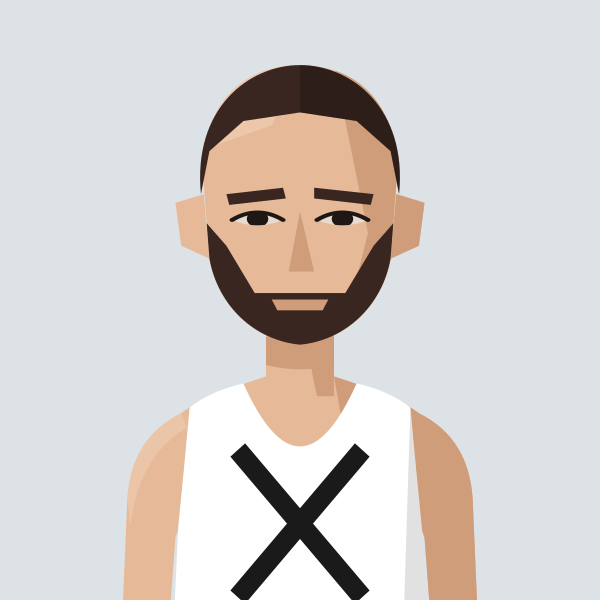
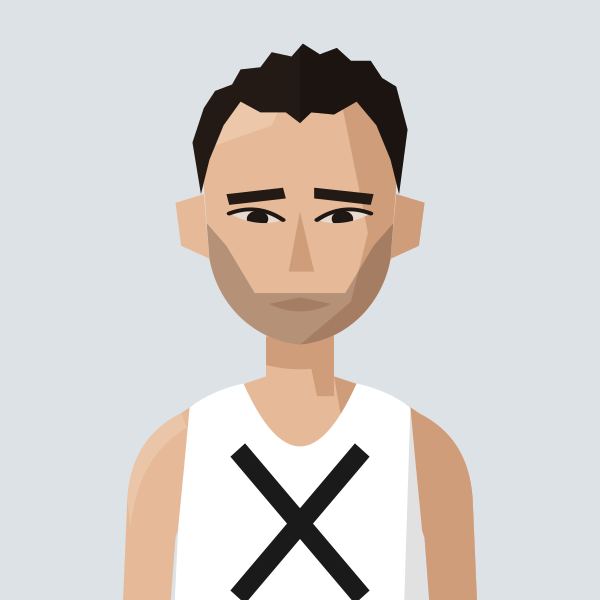
Redraw Richard Ollington: short dark curls, light stubble, round jaw, upturned eyes
Claude-Session: https://claude.ai/code/session_01MgmDWhFqnSSnP4iBLKXUZC

Changed region(s): [[0.3, 0.06, 0.69, 0.33], [0.33, 0.33, 0.66, 0.6], [0.36, 0.33, 0.45, 0.39]]

diff --git a/files/index.html b/files/index.html
@@ -686,7 +686,7 @@ return m;})();
 const portraitFile=(name,club)=>{const k=normalizeNameForCompare(name||'').replace(/\s*\(([^)]*)\)$/,(m,c)=>CLUBS[c.toUpperCase()]?'':m);const a=PORTRAITS[k];if(a&&a.club===club)return a.file;const b=PORTRAITS[k+'@'+club];return b?b.file:null;};
 // Athlete header figure: superstar portrait if we have one, else a grey runner in the club vest, else the plain vest icon
 // Changes whenever any portrait changes (set by tools/build_og.py), so browsers fetch fresh images instead of old cached ones
-const PORTRAIT_V='ead80890';const PORTRAIT_WOMEN='abbey-brooke,abbie-bulbulian,adele-prince,aimee-hargreaves,aisling-ahern,alex-brown,alex-gandee,alex-marginean,alex-miller,alexa-parker,alexandra-barbour,alice-braham,alice-bridger-morales,alice-crane,alice-martin,alice-reed,alice-smith,alison-purnell,alison-thomson,amy-clements,andrea-barber,anika-schwarze-chintapatla,anna-garnier,anna-garnier-hw,anna-sharp,annabel-hobday,annabelle-hadlow,anne-hegvold,annmarie-seymour,ava-mcandie,becky-briggs,bethan-goddard,bethanie-murray,bethany-brown,betsy-griffiths,billie-mcclosky,camilla-barden,caoimhe-nic-fhogartaigh,carolyne-baxter,catherine-bryson,catherine-eastham,catherine-kandie,cathy-ansell,charlotte-griffiths,chloe-beckett,chloe-tighe,chrissie-wellington,claire-grima,clara-pettit,clare-elms,clare-pauzers,dillan-quinn,dorchie-cockerell,eilidh-hide,elinor-skinner,eliza-grant,elizabeth-apsley,elizabeth-stavreski,ella-fennelly,ella-king-powrie,ella-may-hards,ella-newton,ellie-brown,ellie-freeden,eloise-bull,emilie-arnoux,emily-barrett,emily-bradley,emily-lowery,emily-robbins,emma-gordon,emma-howsham,emma-lord,emma-rowland,estle-viljoen,evie-warren,felicity-cole,felicity-harrison,felicity-hayward,fi-maddocks,fiona-de-mauny,florence-wiggins,gabby-collison,gabriel-reynolds,gemma-newport,genevieve-blanch,georgia-curry,georgie-bruinvels,georgie-fenn,georgie-furze,georgie-grgec,gina-galbraith,grace-leyland,grace-richardson,hannah-edwards,hannah-english,heather-statham,heather-statham-cc,helena-corbin,helena-keenan,holly-nixon,holly-pan,imogen-mackie,imogen-wolsey,iona-cousland,isabel-bradley,isabel-brinsden,isabelle-pickett,isobel-hodder,jennifer-nandi,jennifer-smith,jess-reed,jess-saunders,jess-winfield,jessica-davies,jessica-lowe,jodie-favell,josephine-rhodes,julia-bleasdale,julia-wedmore,juliet-hodder,jurgita-levertaviciute,justine-lynch,karen-fenner,karen-xiang,karina-box,kate-axford,kate-williams,kathy-sharpe,katie-ellen-french,katie-good,katie-snowden,katy-hedgethorne,kitty-shepherd-cross,kristina-popadich,lara-bromilow,lara-mangan,laura-goodson,laura-miles,lauren-major,lea-adamson,lily-newton,lisa-bailey,lisa-thomas,lisa-thomas-hw,lizzie-goldie-scot,louise-cooper,lucy-jones,lucy-macalister,lucy-peters,lydia-blackmore,lydia-gallyer-barnett,maddie-mastrolonardo,maddy-whitman,maeve-kenny,margaret-coogan,martina-conner,mary-james,mary-setyabule,matilde-lomba,megan-gildea,mhairi-hall,mimi-corden-lloyd,molly-oconnor,molly-smith,monika-gajek,naomi-lenane,natalie-beadle,natalie-seymour,natasha-lodge,niamh-thompson,nicky-hayes,nicola-cartlidge,nicola-douglas,nikki-sturzaker,olivia-papaioannou,olivia-stillman,orna-mcginley,pamela-mchutchon,patricia-walker,patrizia-gnoato,penny-oliver,rachel-brown,rebecca-barrow,rebekah-edgar,ruby-carter,ruby-whyte-wilding,ruby-woolfe,sally-urquhart,sam-whiting,samantha-munday,sarah-astin,sarah-dewhirst,sarah-grover,sarah-hanley,sarah-holt,sarah-murphy,sarah-palmer,sarah-palmer-ran,sarah-riceman,sarah-young,saron-haileselase,serena-carter,sophie-cowper,sophie-harris,sophie-hicks,sophie-tooley,stacey-ward,steph-hewitt,steph-mccall,steph-mccall-cc,steph-mccall-slh,steph-mitchell,suzanne-swaine,suze-spalding,suzie-harvey,suzy-whatmough,teresa-murphy,tilly-heaton,tilly-heaton-bel,vic-cartwright,vicky-clarke,victoria-barthelmess,victoria-buck,vikki-filsell,zoe-macdonald,zuzana-nemeckova';const PORTRAIT_MEN='aaron-wilson,abdulla-elsadig,adam-leane,adrian-major,adrien-royer,alan-black,alan-mead,alex-brecker,alex-bruce-littlewood,alex-gutteridge,alex-harris,alex-howard,alex-janiaud,alex-lee,alex-lennon,alex-mills,alex-milne,alex-morales,alex-robinson,alex-yee,alexander-marks,amittai-ben-israel,andrew-cumine,andrew-green,andrew-penney,andrew-perfect,andrew-simms,andrew-warburton,andrius-jaksevicius,andy-coley-maud,andy-coley-maud-cc,andy-fyfe,andy-north,andy-paton,andy-weir,angus-butler,angus-lamb,anisse-ismaili,arlo-ludewick,arne-dumez,arthur-peel,ashley-goncalves,barnaby-day,barry-collins,barry-sawyer,ben-clarke,ben-harding,ben-hurley,ben-ireland,ben-millar,ben-paviour,ben-pearce,ben-racle,ben-revill,ben-reynolds,ben-scott,ben-toomer,benedict-whitby,benjamin-hilson,bernie-ford,bill-kerr,bill-weller,bill-weller-wal,bob-harrison,bob-holt,bob-lunnon,bob-rayman,bob-smith,bradley-courtney-pinn,brandon-dewar,brian-gorman,brian-wilder,caleb-hathaway,callum-stewart,cameron-dockerill,cameron-reilly,carl-delaney,charles-herrington,charlie-dabbs,charlie-dickinson,charlie-eastaugh,charlie-manning,charlie-pickett,charlie-rogers,charlie-sandison,charlie-walker,charlie-wyllie,che-compton,chris-busaileh,chris-busaileh-hhh,chris-greenwood,chris-keavey,chris-moss,chris-steer,chris-threadgold,chris-warren,christian-lee,christopher-parker,clive-gilby,clive-shippen,colin-high,colin-pearson,conall-mcnally,conall-whelan,craig-ruddy,dame-dibaba,dan-cliffe,dan-pettitt,daniel-shaw,daniel-wolff,dave-beard,dave-beaver,dave-glassborow,dave-holt,dave-taylor,david-anderson,david-bowers,david-grima,david-north,david-ogden,david-symons,david-walsh,david-williams,deron-fagan,dick-piotrowski,dimos-evangelidis,dominic-kiralyfi,don-anderson,don-faircloth,don-maclean,doug-maughan,duncan-rimmer,dylan-evans,dylan-mitchard,ed-brewer,ed-catmur,ed-gibson,ed-mallett,eddie-herridge,eddie-jodrell,eddie-rolls,edward-chuck,eoin-brady,eoin-molloy,ethan-mccolgan,falilou-kebe,findlay-dyer,finn-johnson,fintan-pearce,frank-tickner,frank-ward,fred-paget,fred-slemeck,freddie-hessian,garret-lee,gary-ribbons,gary-ribbons-ee,gary-staines,gavin-eccles,geoff-biscoe,geoff-jerwood,geoff-north,george-cotton,george-gathercole,george-jackson,george-loxton,george-mallett,george-ogden,gerry-adams,gerry-north,glen-keegan,gordon-pearce,graham-macky,harrison-hayman,harry-guttridge,hector-revill,henry-hart,henry-silverstein,hugo-hewitt,ian-acreman,ian-crowe-wright,ian-ellwood,ian-harkness,indy-barnes,isaac-lutaya,isaac-parker,jack-brotchie,jack-dickson,jack-dormer,jack-hampshire,jack-harrison,jack-hobden,jack-kavanagh,jack-millar,jack-ramm,jack-woods,jacob-brockmann,jake-simmonds,james-bartram,james-blackwood,james-bowler,james-estall,james-ewing,james-fox,james-hancock,james-harvey,james-hoad,james-kelly,james-mcmullan,james-murray,james-nutt,james-preston,james-roberts,james-stockings,james-ward,james-wootton,jamie-crowe,jamie-parkinson,jared-martin,jean-paul-wright,jeff-cunningham,jeremy-dempsey,jermaine-mays,jerry-watson,jim-allchin,jim-rimmer,joe-english,joe-hartley,john-baker,john-bicourt,john-bromley,john-davies,john-dear,john-foss,john-foxall,john-gilbert,john-gladwin,john-hutchins,john-kendall,john-kimaiyo,john-lee,john-lethbridge,john-mather,john-moore,john-roberts,john-sanderson,john-stow,john-sullivan,john-thresher,jon-hobbs,jon-pepper,jon-pepper-slh,jon-phillips,jon-solly,jonathan-cocker,jonathan-collier,jonathan-cornish,jonathan-ratcliffe,jonathan-tipper,jonathon-blackledge,jonny-neville,jonny-scott,jordan-weaver,josh-mitchell,josh-snow,josh-trigwell,jules-gevers,junior-galley,justin-chaston,justin-reid,kassa-tadesse,keith-newton,kevin-nash,kevin-quinn,kevin-sturman,kieran-barnes,kieran-white,knut-hegvold,knut-hegvold-bel,larry-ryan,lawrence-avery,lee-lintern,lewis-lloyd,liam-burthem,lionel-mann,lloyd-kempson,luke-caldwell,mack-downie,malachi-byansi,marcello-bizio,marcelo-fortes,marco-mazzotta,mark-anderson,mark-miles,mark-sinclair,mark-tennyson,mark-waller,martin-dent,martin-lake,martin-lewington,martin-shore,mathew-speed,matt-chaston,matt-jones,matt-wood,matthew-edgar,matthew-houchell,matthew-thomas,matthew-varley,max-bloor,max-heyden,max-milarvie,max-nicholls,michael-baker,michael-mccarthy,mick-woods,mike-beevor,mike-boyle,mike-cummings,mike-farmery,mike-fuller,mike-hayes,mike-kortenray,mike-nouch,mohammed-ismail,monty-hudson,morgan-roberts,nathan-visick,neil-chisholm,neil-phillips,neil-speaight,neil-wilson,nic-lukies,nick-acfield,nick-altmann,nick-bester,nick-bester-hhh,nick-buckle,nick-bundle,nick-goolab,nick-lightfoot,nick-morris,nick-torry,noah-fernandez,norman-stairs,oli-carrington,oliver-carrington,oliver-fox,oliver-reynolds,oliver-young,ollie-foote,ollie-garrod,olly-buck,owen-hind,paddy-roddy,pancho-panchev,paskar-owor,pat-newell,patrick-mcdougall,paul-calver,paul-cheetham,paul-freary,paul-magner,paul-pollock,pete-carton,pete-gardner,peter-clarke,peter-giles,peter-giles-thh,peter-lighting,phil-carstairs,phil-sanders,phil-sesemann,phil-swinburn,phil-wicks,phil-woodford-smith,raj-paranandi,ralph-street,ranjit-bhatia,ray-foley,reece-edwards,rhys-boorman,rian-mccawley,richard-ashe,richard-giles,richard-henderson,richard-langley,richard-mcdowell,richard-ollington,richard-partridge,richard-sun,richard-ward,rob-armstrong,rob-kelly,rob-tuer,robert-elphick,robert-laing,robert-norville,robert-peacock,robert-sesemann,robin-boon,robin-hudson,roger-alsop,roger-alsop-bel,ron-clark,ron-linstead,ronan-tanguy,rory-mcmahon,rory-orsborn,ross-christie,rowan-board,rowan-crichton,russell-dessaix-chin,ryan-hickey,ryan-mccallister,sam-bramwell,sam-charlton,sam-gebreselassie,sam-peters,sam-sommerville,sam-tyas,samuel-dames,samuel-wilcock,sean-cordon,sebastian-anthony,simon-baines,simon-coombes,simon-coppard,simon-holmes,simon-rayner,simon-rayner-hw,simon-wade,simon-wade-hhh,simon-waterhouse,simon-williams,simon-wurr,sonny-nicoll,spencer-barden,stephen-mcleod,stephen-sharp,steve-gardner,steve-jones,steve-smythe,steve-smythe-hhh,stuart-beaney,stuart-major,stuart-major-thh,stuart-mccallum,stuart-paton,terry-booth,thomas-dugre,thomas-gandee,thomas-gardner,thomas-renshaw,tim-alexander,tim-eglen,tim-lawrence,tim-watson,toby-cooke,toby-fletcher,tom-austin,tom-cheetham,tom-conlon,tom-davies,tom-gifford,tom-jervis,tom-lole,tom-south,tom-thornley,tommy-taylor,tony-binda,tony-fairclough,tony-harran,trevor-hart,valdis-pauzers,valentin-rigori,vic-maughan,will-cockerell,will-lewis,will-marshall,will-scott,will-stockley,william-gardner,yacin-yusuf,zach-nolan';
+const PORTRAIT_V='47bbb276';const PORTRAIT_WOMEN='abbey-brooke,abbie-bulbulian,adele-prince,aimee-hargreaves,aisling-ahern,alex-brown,alex-gandee,alex-marginean,alex-miller,alexa-parker,alexandra-barbour,alice-braham,alice-bridger-morales,alice-crane,alice-martin,alice-reed,alice-smith,alison-purnell,alison-thomson,amy-clements,andrea-barber,anika-schwarze-chintapatla,anna-garnier,anna-garnier-hw,anna-sharp,annabel-hobday,annabelle-hadlow,anne-hegvold,annmarie-seymour,ava-mcandie,becky-briggs,bethan-goddard,bethanie-murray,bethany-brown,betsy-griffiths,billie-mcclosky,camilla-barden,caoimhe-nic-fhogartaigh,carolyne-baxter,catherine-bryson,catherine-eastham,catherine-kandie,cathy-ansell,charlotte-griffiths,chloe-beckett,chloe-tighe,chrissie-wellington,claire-grima,clara-pettit,clare-elms,clare-pauzers,dillan-quinn,dorchie-cockerell,eilidh-hide,elinor-skinner,eliza-grant,elizabeth-apsley,elizabeth-stavreski,ella-fennelly,ella-king-powrie,ella-may-hards,ella-newton,ellie-brown,ellie-freeden,eloise-bull,emilie-arnoux,emily-barrett,emily-bradley,emily-lowery,emily-robbins,emma-gordon,emma-howsham,emma-lord,emma-rowland,estle-viljoen,evie-warren,felicity-cole,felicity-harrison,felicity-hayward,fi-maddocks,fiona-de-mauny,florence-wiggins,gabby-collison,gabriel-reynolds,gemma-newport,genevieve-blanch,georgia-curry,georgie-bruinvels,georgie-fenn,georgie-furze,georgie-grgec,gina-galbraith,grace-leyland,grace-richardson,hannah-edwards,hannah-english,heather-statham,heather-statham-cc,helena-corbin,helena-keenan,holly-nixon,holly-pan,imogen-mackie,imogen-wolsey,iona-cousland,isabel-bradley,isabel-brinsden,isabelle-pickett,isobel-hodder,jennifer-nandi,jennifer-smith,jess-reed,jess-saunders,jess-winfield,jessica-davies,jessica-lowe,jodie-favell,josephine-rhodes,julia-bleasdale,julia-wedmore,juliet-hodder,jurgita-levertaviciute,justine-lynch,karen-fenner,karen-xiang,karina-box,kate-axford,kate-williams,kathy-sharpe,katie-ellen-french,katie-good,katie-snowden,katy-hedgethorne,kitty-shepherd-cross,kristina-popadich,lara-bromilow,lara-mangan,laura-goodson,laura-miles,lauren-major,lea-adamson,lily-newton,lisa-bailey,lisa-thomas,lisa-thomas-hw,lizzie-goldie-scot,louise-cooper,lucy-jones,lucy-macalister,lucy-peters,lydia-blackmore,lydia-gallyer-barnett,maddie-mastrolonardo,maddy-whitman,maeve-kenny,margaret-coogan,martina-conner,mary-james,mary-setyabule,matilde-lomba,megan-gildea,mhairi-hall,mimi-corden-lloyd,molly-oconnor,molly-smith,monika-gajek,naomi-lenane,natalie-beadle,natalie-seymour,natasha-lodge,niamh-thompson,nicky-hayes,nicola-cartlidge,nicola-douglas,nikki-sturzaker,olivia-papaioannou,olivia-stillman,orna-mcginley,pamela-mchutchon,patricia-walker,patrizia-gnoato,penny-oliver,rachel-brown,rebecca-barrow,rebekah-edgar,ruby-carter,ruby-whyte-wilding,ruby-woolfe,sally-urquhart,sam-whiting,samantha-munday,sarah-astin,sarah-dewhirst,sarah-grover,sarah-hanley,sarah-holt,sarah-murphy,sarah-palmer,sarah-palmer-ran,sarah-riceman,sarah-young,saron-haileselase,serena-carter,sophie-cowper,sophie-harris,sophie-hicks,sophie-tooley,stacey-ward,steph-hewitt,steph-mccall,steph-mccall-cc,steph-mccall-slh,steph-mitchell,suzanne-swaine,suze-spalding,suzie-harvey,suzy-whatmough,teresa-murphy,tilly-heaton,tilly-heaton-bel,vic-cartwright,vicky-clarke,victoria-barthelmess,victoria-buck,vikki-filsell,zoe-macdonald,zuzana-nemeckova';const PORTRAIT_MEN='aaron-wilson,abdulla-elsadig,adam-leane,adrian-major,adrien-royer,alan-black,alan-mead,alex-brecker,alex-bruce-littlewood,alex-gutteridge,alex-harris,alex-howard,alex-janiaud,alex-lee,alex-lennon,alex-mills,alex-milne,alex-morales,alex-robinson,alex-yee,alexander-marks,amittai-ben-israel,andrew-cumine,andrew-green,andrew-penney,andrew-perfect,andrew-simms,andrew-warburton,andrius-jaksevicius,andy-coley-maud,andy-coley-maud-cc,andy-fyfe,andy-north,andy-paton,andy-weir,angus-butler,angus-lamb,anisse-ismaili,arlo-ludewick,arne-dumez,arthur-peel,ashley-goncalves,barnaby-day,barry-collins,barry-sawyer,ben-clarke,ben-harding,ben-hurley,ben-ireland,ben-millar,ben-paviour,ben-pearce,ben-racle,ben-revill,ben-reynolds,ben-scott,ben-toomer,benedict-whitby,benjamin-hilson,bernie-ford,bill-kerr,bill-weller,bill-weller-wal,bob-harrison,bob-holt,bob-lunnon,bob-rayman,bob-smith,bradley-courtney-pinn,brandon-dewar,brian-gorman,brian-wilder,caleb-hathaway,callum-stewart,cameron-dockerill,cameron-reilly,carl-delaney,charles-herrington,charlie-dabbs,charlie-dickinson,charlie-eastaugh,charlie-manning,charlie-pickett,charlie-rogers,charlie-sandison,charlie-walker,charlie-wyllie,che-compton,chris-busaileh,chris-busaileh-hhh,chris-greenwood,chris-keavey,chris-moss,chris-steer,chris-threadgold,chris-warren,christian-lee,christopher-parker,clive-gilby,clive-shippen,colin-high,colin-pearson,conall-mcnally,conall-whelan,craig-ruddy,dame-dibaba,dan-cliffe,dan-pettitt,daniel-shaw,daniel-wolff,dave-beard,dave-beaver,dave-glassborow,dave-holt,dave-taylor,david-anderson,david-bowers,david-grima,david-north,david-ogden,david-symons,david-walsh,david-williams,deron-fagan,dick-piotrowski,dimos-evangelidis,dominic-kiralyfi,don-anderson,don-faircloth,don-maclean,doug-maughan,duncan-rimmer,dylan-evans,dylan-mitchard,ed-brewer,ed-catmur,ed-gibson,ed-mallett,eddie-herridge,eddie-jodrell,eddie-rolls,edward-chuck,eoin-brady,eoin-molloy,ethan-mccolgan,falilou-kebe,findlay-dyer,finn-johnson,fintan-pearce,frank-tickner,frank-ward,fred-paget,fred-slemeck,freddie-hessian,garret-lee,gary-ribbons,gary-ribbons-ee,gary-staines,gavin-eccles,geoff-biscoe,geoff-jerwood,geoff-north,george-cotton,george-gathercole,george-jackson,george-loxton,george-mallett,george-ogden,gerry-adams,gerry-north,glen-keegan,gordon-pearce,graham-macky,harrison-hayman,harry-guttridge,hector-revill,henry-hart,henry-silverstein,hugo-hewitt,ian-acreman,ian-crowe-wright,ian-ellwood,ian-harkness,indy-barnes,isaac-lutaya,isaac-parker,jack-brotchie,jack-dickson,jack-dormer,jack-hampshire,jack-harrison,jack-hobden,jack-kavanagh,jack-millar,jack-ramm,jack-woods,jacob-brockmann,jake-simmonds,james-bartram,james-blackwood,james-bowler,james-estall,james-ewing,james-fox,james-hancock,james-harvey,james-hoad,james-kelly,james-mcmullan,james-murray,james-nutt,james-preston,james-roberts,james-stockings,james-ward,james-wootton,jamie-crowe,jamie-parkinson,jared-martin,jean-paul-wright,jeff-cunningham,jeremy-dempsey,jermaine-mays,jerry-watson,jim-allchin,jim-rimmer,joe-english,joe-hartley,john-baker,john-bicourt,john-bromley,john-davies,john-dear,john-foss,john-foxall,john-gilbert,john-gladwin,john-hutchins,john-kendall,john-kimaiyo,john-lee,john-lethbridge,john-mather,john-moore,john-roberts,john-sanderson,john-stow,john-sullivan,john-thresher,jon-hobbs,jon-pepper,jon-pepper-slh,jon-phillips,jon-solly,jonathan-cocker,jonathan-collier,jonathan-cornish,jonathan-ratcliffe,jonathan-tipper,jonathon-blackledge,jonny-neville,jonny-scott,jordan-weaver,josh-mitchell,josh-snow,josh-trigwell,jules-gevers,junior-galley,justin-chaston,justin-reid,kassa-tadesse,keith-newton,kevin-nash,kevin-quinn,kevin-sturman,kieran-barnes,kieran-white,knut-hegvold,knut-hegvold-bel,larry-ryan,lawrence-avery,lee-lintern,lewis-lloyd,liam-burthem,lionel-mann,lloyd-kempson,luke-caldwell,mack-downie,malachi-byansi,marcello-bizio,marcelo-fortes,marco-mazzotta,mark-anderson,mark-miles,mark-sinclair,mark-tennyson,mark-waller,martin-dent,martin-lake,martin-lewington,martin-shore,mathew-speed,matt-chaston,matt-jones,matt-wood,matthew-edgar,matthew-houchell,matthew-thomas,matthew-varley,max-bloor,max-heyden,max-milarvie,max-nicholls,michael-baker,michael-mccarthy,mick-woods,mike-beevor,mike-boyle,mike-cummings,mike-farmery,mike-fuller,mike-hayes,mike-kortenray,mike-nouch,mohammed-ismail,monty-hudson,morgan-roberts,nathan-visick,neil-chisholm,neil-phillips,neil-speaight,neil-wilson,nic-lukies,nick-acfield,nick-altmann,nick-bester,nick-bester-hhh,nick-buckle,nick-bundle,nick-goolab,nick-lightfoot,nick-morris,nick-torry,noah-fernandez,norman-stairs,oli-carrington,oliver-carrington,oliver-fox,oliver-reynolds,oliver-young,ollie-foote,ollie-garrod,olly-buck,owen-hind,paddy-roddy,pancho-panchev,paskar-owor,pat-newell,patrick-mcdougall,paul-calver,paul-cheetham,paul-freary,paul-magner,paul-pollock,pete-carton,pete-gardner,peter-clarke,peter-giles,peter-giles-thh,peter-lighting,phil-carstairs,phil-sanders,phil-sesemann,phil-swinburn,phil-wicks,phil-woodford-smith,raj-paranandi,ralph-street,ranjit-bhatia,ray-foley,reece-edwards,rhys-boorman,rian-mccawley,richard-ashe,richard-giles,richard-henderson,richard-langley,richard-mcdowell,richard-ollington,richard-partridge,richard-sun,richard-ward,rob-armstrong,rob-kelly,rob-tuer,robert-elphick,robert-laing,robert-norville,robert-peacock,robert-sesemann,robin-boon,robin-hudson,roger-alsop,roger-alsop-bel,ron-clark,ron-linstead,ronan-tanguy,rory-mcmahon,rory-orsborn,ross-christie,rowan-board,rowan-crichton,russell-dessaix-chin,ryan-hickey,ryan-mccallister,sam-bramwell,sam-charlton,sam-gebreselassie,sam-peters,sam-sommerville,sam-tyas,samuel-dames,samuel-wilcock,sean-cordon,sebastian-anthony,simon-baines,simon-coombes,simon-coppard,simon-holmes,simon-rayner,simon-rayner-hw,simon-wade,simon-wade-hhh,simon-waterhouse,simon-williams,simon-wurr,sonny-nicoll,spencer-barden,stephen-mcleod,stephen-sharp,steve-gardner,steve-jones,steve-smythe,steve-smythe-hhh,stuart-beaney,stuart-major,stuart-major-thh,stuart-mccallum,stuart-paton,terry-booth,thomas-dugre,thomas-gandee,thomas-gardner,thomas-renshaw,tim-alexander,tim-eglen,tim-lawrence,tim-watson,toby-cooke,toby-fletcher,tom-austin,tom-cheetham,tom-conlon,tom-davies,tom-gifford,tom-jervis,tom-lole,tom-south,tom-thornley,tommy-taylor,tony-binda,tony-fairclough,tony-harran,trevor-hart,valdis-pauzers,valentin-rigori,vic-maughan,will-cockerell,will-lewis,will-marshall,will-scott,will-stockley,william-gardner,yacin-yusuf,zach-nolan';
 const AthletePortrait=({name,club,w,fill,onClick,blink})=>{const[failed,setFailed]=useState(false);const file=portraitFile(name,club);const src0=file?`/portraits/athletes/${file}.svg?v=${PORTRAIT_V}`:PORTRAIT_CLUBS.has(club)?`/portraits/clubs/${club.replace(/\//g,'').replace(/&/g,'and')}.svg?v=${PORTRAIT_V}`:null;const blinkSrc=useBlinkSrc(file?(file==='john-sanderson'?`/portraits/athletes/john-sanderson-dog.svg?v=${PORTRAIT_V}`:src0):null,!!blink);const src=blinkSrc||src0;if(!src||failed)return<div onClick={onClick} className={onClick?'cursor-pointer':''}><ClubShield club={club} size={w}/></div>;const h=Math.round(w*148/126),ih=Math.round(w*1.4);if(fill)return<div onClick={onClick} className="cursor-pointer" style={{alignSelf:'stretch',minHeight:h,aspectRatio:'126 / 148',flexShrink:0,position:'relative',borderRadius:4,overflow:'hidden'}}><img src={src} alt={file?`Portrait of ${name.replace(/\s*\([^)]*\)$/,'')}`:`Runner in ${CLUBS[club]?.name||club} vest`} style={{position:'absolute',top:0,left:0,display:'block',width:'100%',height:'auto'}} onError={()=>setFailed(true)}/></div>;return<div style={{width:w,height:h,borderRadius:4,overflow:'hidden',flexShrink:0}}><img src={src} alt={file?`Portrait of ${name.replace(/\s*\([^)]*\)$/,'')}`:`Runner in ${CLUBS[club]?.name||club} vest`} width={w} height={ih} style={{display:'block',width:w,height:ih}} onError={()=>setFailed(true)}/></div>;};
 const getClubVestSvg=(club)=>{
   const p="M3 0 L6 0 Q7 4 10 5 Q13 4 14 0 L17 0 L17 20 L3 20 Z";

diff --git a/tools/gen_portraits.py b/tools/gen_portraits.py
@@ -480,7 +480,6 @@ save("foster", figure("G&G", skin=1, hair="crop", hair_colour="dark brown", faci
 save("hair_shortcurls", figure("HOL", skin=2, hair="shortcurls", hair_colour="mid brown"))
 save("tennyson", figure("G&G", skin=1, hair="curlspeak", hair_colour="mid brown", greying="sides", glasses=True))
 save("glasses_on", figure("HOL", skin=3, hair="crop", hair_colour="dark brown", glasses=True))
-save("ollington", figure("THH", skin=2, hair="crop", hair_colour="dark brown", facial="beard"))
 save("preston", figure("BEL", skin=3, hair="afro", hair_colour="black"))
 print(len(os.listdir("v4")))
 save("wolff", figure("BEL", skin=1, hair="crop", hair_colour="light brown"))
@@ -1509,4 +1508,6 @@ save("sanderson", eyes(figure("G&G", skin=1, hair="quiff", hair_colour="dark bro
 # profile-page-only version: his dog sits inside the athlete-page crop; the site animates it popping up at the end of the blink loop
 save("sanderson_dog", with_dog(eyes(figure("G&G", skin=1, hair="quiff", hair_colour="dark brown", facial="stubble", facial_colour="#8A6A50", jaw="square"), "hooded"), cx=158, cy=214, s=1.2))
 
+# Richard Ollington, redrawn Oct 2026: short dark curls, light stubble, rounded jaw, warm upturned eyes
+save("ollington", eyes(figure("THH", skin=2, hair="shortcurls", hair_colour="#241A15", facial="stubble", facial_colour="#4A3A30"), "upturned"))
 export_site()
